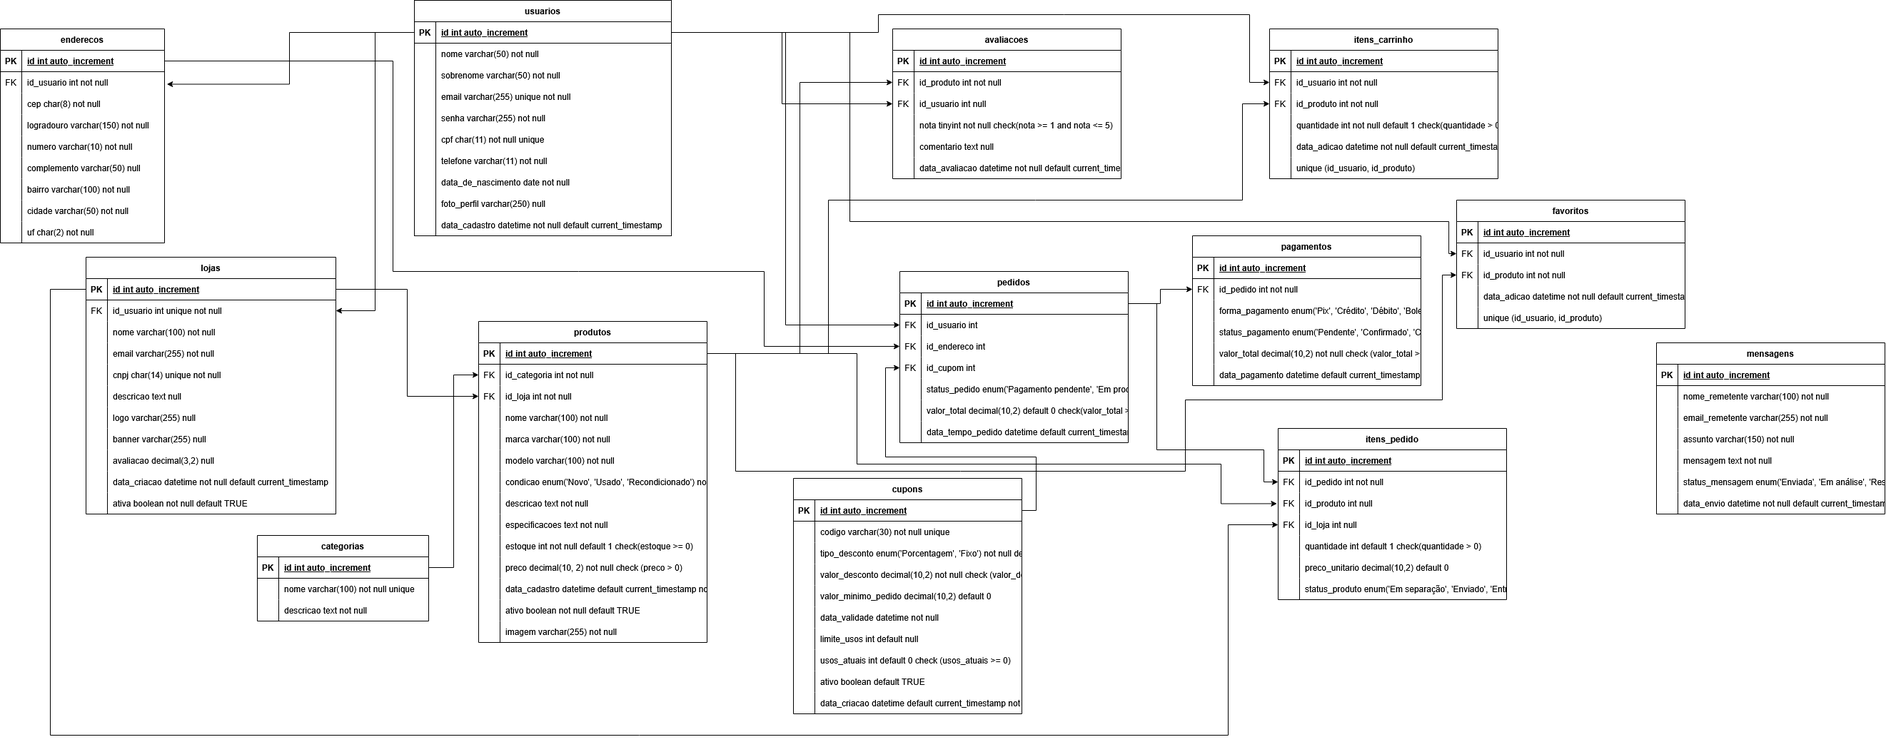
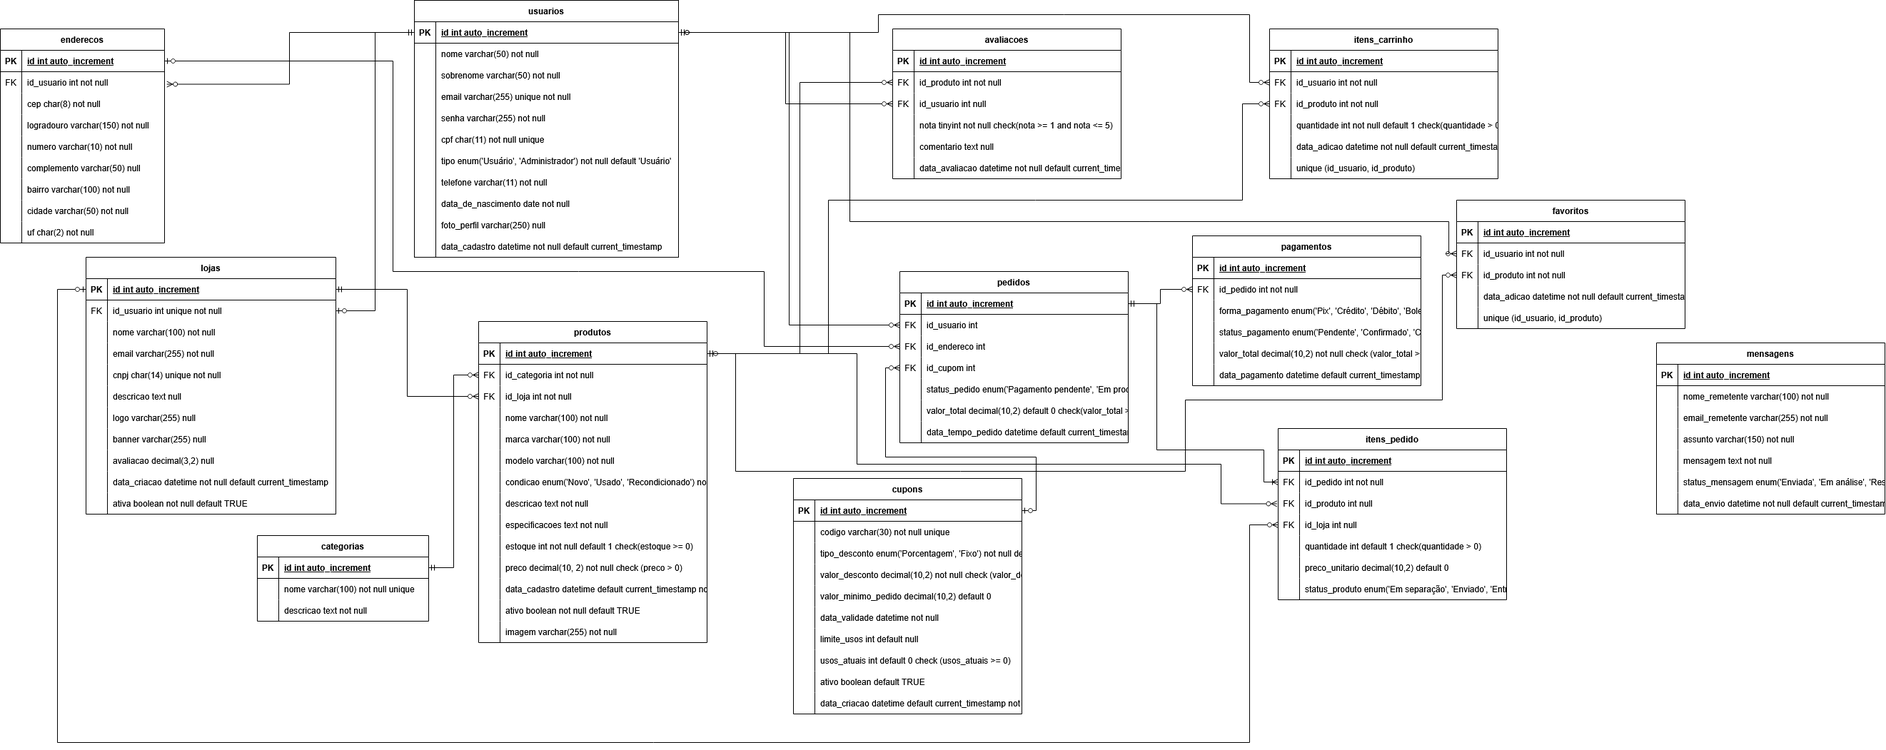
Atualizacao da documentacao

diff --git a/docs/banco-de-dados.md b/docs/banco-de-dados.md
@@ -20,16 +20,17 @@
 ## 1. `usuarios`
 | Campo | Tipo | Nulo | Chave / Restrições | Descrição |
 | :--- | :--- | :--- | :--- | :--- |
-| `id` | `INT` | Não | `PK`, `AUTO_INCREMENT` | Identificador do usuário. |
-| `nome` | `VARCHAR(50)` | Não | — | Primeiro nome do usuário. |
-| `sobrenome` | `VARCHAR(50)` | Não | — | Sobrenome do usuário. |
-| `email` | `VARCHAR(255)` | Não | `UNIQUE` | E-mail do usuário |
-| `senha` | `VARCHAR(255)` | Não | — | Senha do usuário |
-| `cpf` | `CHAR(11)` | Não | `UNIQUE` | CPF do usuário |
-| `telefone` | `VARCHAR(11)` | Não | — | Número de telefone do usuário |
+| `id` | `int` | Não | `PK`, `auto_increment` | Identificador do usuário. |
+| `nome` | `varchar(50)` | Não | — | Primeiro nome do usuário. |
+| `sobrenome` | `varchar(50)` | Não | — | Sobrenome do usuário. |
+| `email` | `varchar(255)` | Não | `unique` | E-mail do usuário |
+| `senha` | `varchar(255)` | Não | — | Senha do usuário |
+| `tipo` | `enum('Usuário', 'Administrador')` | Não | `default 'Usuário'` | Tipo do usuário |
+| `cpf` | `char(11)` | Não | `unique` | CPF do usuário |
+| `telefone` | `varchar(11)` | Não | — | Número de telefone do usuário |
 | `data_de_nascimento` | `DATE` | Não | — | Data de nascimento |
-| `foto_perfil` | `VARCHAR(250)` | Sim | `DEFAULT NULL` | Caminho ou URL da imagem de perfil |
-| `data_cadastro` | `DATETIME` | Não | `DEFAULT CURRENT_TIMESTAMP` | Data e hora de criação da conta |
+| `foto_perfil` | `varchar(250)` | Sim | `default null` | Caminho ou URL da imagem de perfil |
+| `data_cadastro` | `datetime` | Não | `default current_timestamp` | Data e hora de criação da conta |
 
 * **Cardinalidade:** `usuarios (1) : (0..1) lojas` | `usuarios (1) : (N) enderecos` | `usuarios (1) : (N) pedidos` | `usuarios (1) : (N) avaliacoes` | `usuarios (1) : (N) favoritos` | `usuarios (1) : (N) itens_carrinho`.
 
@@ -38,17 +39,17 @@
 ## 2. `enderecos`
 | Campo | Tipo | Nulo | Chave / Restrições | Descrição |
 | :--- | :--- | :--- | :--- | :--- |
-| `id` | `INT` | Não | `PK`, `AUTO_INCREMENT` | Identificador do endereço |
-| `id_usuario` | `INT` | Não | `FK` → `usuarios(id)` | Identificador do usuário proprietário do endereço |
-| `cep` | `CHAR(8)` | Não | — | Código de Endereçamento Postal |
-| `logradouro` | `VARCHAR(150)` | Não | — | Rua, avenida ou travessa |
-| `numero` | `VARCHAR(10)` | Não | — | Número do imóvel |
-| `complemento` | `VARCHAR(50)` | Sim | `DEFAULT NULL` | Apartamento, bloco ou ponto de referência |
-| `bairro` | `VARCHAR(100)` | Não | — | Bairro do endereço |
-| `cidade` | `VARCHAR(50)` | Não | — | Cidade do endereço |
-| `uf` | `CHAR(2)` | Não | — | Unidade Federativa (estado) do endereço |
+| `id` | `int` | Não | `PK`, `auto_increment` | Identificador do endereço |
+| `id_usuario` | `int` | Não | `FK` → `usuarios(id)` | Identificador do usuário proprietário do endereço |
+| `cep` | `char(8)` | Não | — | Código de Endereçamento Postal |
+| `logradouro` | `varchar(150)` | Não | — | Rua, avenida ou travessa |
+| `numero` | `varchar(10)` | Não | — | Número do imóvel |
+| `complemento` | `varchar(50)` | Sim | `default null` | Apartamento, bloco ou ponto de referência |
+| `bairro` | `varchar(100)` | Não | — | Bairro do endereço |
+| `cidade` | `varchar(50)` | Não | — | Cidade do endereço |
+| `uf` | `char(2)` | Não | — | Unidade Federativa (estado) do endereço |
 
-* `id_usuario` referencia `usuarios(id)` com `ON DELETE CASCADE` e `ON UPDATE CASCADE`
+* `id_usuario` referencia `usuarios(id)` com `on delete cascade` e `on update cascade`
 * **Cardinalidade:** `usuarios (1) : (N) enderecos` | `enderecos (1) : (N) pedidos`
 
 ---
@@ -56,9 +57,9 @@
 ## 3. `categorias`
 | Campo | Tipo | Nulo | Chave / Restrições | Descrição |
 | :--- | :--- | :--- | :--- | :--- |
-| `id` | `INT` | Não | `PK`, `AUTO_INCREMENT` | Identificador da categoria |
-| `nome` | `VARCHAR(100)` | Não | `UNIQUE` | Nome da categoria |
-| `descricao` | `TEXT` | Não | — | Descrição dos tipos de produtos dessa categoria |
+| `id` | `int` | Não | `PK`, `auto_increment` | Identificador da categoria |
+| `nome` | `varchar(100)` | Não | `unique` | Nome da categoria |
+| `descricao` | `text` | Não | — | Descrição dos tipos de produtos dessa categoria |
 
 * **Cardinalidade:** `categorias (1) : (N) produtos`
 
@@ -68,19 +69,19 @@
 
 | Campo | Tipo | Nulo | Chave / Restrições | Descrição |
 | :--- | :--- | :--- | :--- | :--- |
-| `id` | `INT` | Não | `PK`, `AUTO_INCREMENT` | Identificador da loja |
-| `id_usuario` | `INT` | Não | `FK` → `usuarios(id)`, `UNIQUE` | Usuário responsável pela loja |
-| `nome` | `VARCHAR(100)` | Não | — | Nome da loja |
-| `email` | `VARCHAR(255)` | Não | — | E-mail comercial da loja |
-| `cnpj` | `CHAR(14)` | Não | `UNIQUE` | Cadastro Nacional da Pessoa Jurídica |
-| `descricao` | `TEXT` | Sim | `DEFAULT NULL` | Apresentação da loja |
-| `logo` | `VARCHAR(255)` | Sim | `DEFAULT NULL` | Caminho do logotipo da loja |
-| `banner` | `VARCHAR(255)` | Sim | `DEFAULT NULL` | Caminho da capa da página da loja |
-| `avaliacao` | `DECIMAL(3,2)` | Sim | `DEFAULT NULL` | Nota média da loja |
-| `data_criacao` | `DATETIME` | Não | `DEFAULT CURRENT_TIMESTAMP` | Data e hora da criação da loja |
-| `ativa` | `BOOLEAN` | Não | `DEFAULT TRUE` | Indica se a loja está ativa (`TRUE`) ou suspensa (`FALSE`). |
+| `id` | `int` | Não | `PK`, `auto_increment` | Identificador da loja |
+| `id_usuario` | `int` | Não | `FK` → `usuarios(id)`, `unique` | Usuário responsável pela loja |
+| `nome` | `varchar(100)` | Não | — | Nome da loja |
+| `email` | `varchar(255)` | Não | — | E-mail comercial da loja |
+| `cnpj` | `char(14)` | Não | `unique` | Cadastro Nacional da Pessoa Jurídica |
+| `descricao` | `text` | Sim | `default null` | Apresentação da loja |
+| `logo` | `varchar(255)` | Sim | `default null` | Caminho do logotipo da loja |
+| `banner` | `varchar(255)` | Sim | `default null` | Caminho da capa da página da loja |
+| `avaliacao` | `decimal(3,2)` | Sim | `default null` | Nota média da loja |
+| `data_criacao` | `datetime` | Não | `default current_timestamp` | Data e hora da criação da loja |
+| `ativa` | `boolean` | Não | `default TRUE` | Indica se a loja está ativa (`TRUE`) ou suspensa (`FALSE`). |
 
-* `id_usuario` referencia `usuarios(id)` com `ON DELETE CASCADE` e `ON UPDATE CASCADE`
+* `id_usuario` referencia `usuarios(id)` com `on delete cascade` e `on update cascade`
 * **Cardinalidade:** `usuarios (1) : (0..1) lojas` | `lojas (1) : (N) produtos` | `lojas (1) : (N) itens_pedido`
 
 ---
@@ -88,23 +89,23 @@
 ## 5. `produtos`
 | Campo | Tipo | Nulo | Chave / Restrições | Descrição |
 | :--- | :--- | :--- | :--- | :--- |
-| `id` | `INT` | Não | `PK`, `AUTO_INCREMENT` | Identificador do produto |
-| `id_categoria` | `INT` | Não | `FK` → `categorias(id)` | Identificador da categoria deste produto |
-| `id_loja` | `INT` | Não | `FK` → `lojas(id)` | Identificador da loja que vende este produto |
-| `nome` | `VARCHAR(100)` | Não | — | Nome do produto |
-| `marca` | `VARCHAR(100)` | Não | — | Fabricante do produto |
-| `modelo` | `VARCHAR(100)` | Não | — | Modelo do produto |
-| `condicao` | `ENUM('Novo', 'Usado', 'Recondicionado')` | Não | `DEFAULT 'Novo'` | Estado do produto |
-| `descricao` | `TEXT` | Não | — | Descrição detalhada do produto |
-| `especificacoes` | `TEXT` | Não | — | Ficha técnica e especificações do produto |
-| `estoque` | `INT` | Não | `DEFAULT 1`, `CHECK (estoque >= 0)` | Quantidade de unidades do produto disponíveis para venda |
-| `preco` | `DECIMAL(10,2)` | Não | `CHECK (preco > 0)` | Preço unitário atual de venda (em reais) |
-| `data_cadastro` | `DATETIME` | Não | `DEFAULT CURRENT_TIMESTAMP` | Data e hora do cadastro do produto |
-| `ativo` | `BOOLEAN` | Não | `DEFAULT TRUE` | Indica se o anúncio está visível (`TRUE`) ou oculto (`FALSE`) |
-| `imagem` | `VARCHAR(255)` | Não | — | Caminho da imagem do produto |
+| `id` | `int` | Não | `PK`, `auto_increment` | Identificador do produto |
+| `id_categoria` | `int` | Não | `FK` → `categorias(id)` | Identificador da categoria deste produto |
+| `id_loja` | `int` | Não | `FK` → `lojas(id)` | Identificador da loja que vende este produto |
+| `nome` | `varchar(100)` | Não | — | Nome do produto |
+| `marca` | `varchar(100)` | Não | — | Fabricante do produto |
+| `modelo` | `varchar(100)` | Não | — | Modelo do produto |
+| `condicao` | `enum('Novo', 'Usado', 'Recondicionado')` | Não | `default 'Novo'` | Estado do produto |
+| `descricao` | `text` | Não | — | Descrição detalhada do produto |
+| `especificacoes` | `text` | Não | — | Ficha técnica e especificações do produto |
+| `estoque` | `int` | Não | `default 1`, `CHECK (estoque >= 0)` | Quantidade de unidades do produto disponíveis para venda |
+| `preco` | `decimal(10,2)` | Não | `CHECK (preco > 0)` | Preço unitário atual de venda (em reais) |
+| `data_cadastro` | `datetime` | Não | `default current_timestamp` | Data e hora do cadastro do produto |
+| `ativo` | `boolean` | Não | `default TRUE` | Indica se o anúncio está visível (`TRUE`) ou oculto (`FALSE`) |
+| `imagem` | `varchar(255)` | Não | — | Caminho da imagem do produto |
 
-* `id_categoria` referencia `categorias(id)` com `ON DELETE RESTRICT` e `ON UPDATE CASCADE`
-* `id_loja` referencia `lojas(id)` com `ON DELETE CASCADE` e `ON UPDATE CASCADE`
+* `id_categoria` referencia `categorias(id)` com `on delete restrict` e `on update cascade`
+* `id_loja` referencia `lojas(id)` com `on delete cascade` e `on update cascade`
 * **Cardinalidade:** `categorias (1) : (N) produtos` | `lojas (1) : (N) produtos` | `produtos (1) : (N) itens_pedido` | `produtos (1) : (N) avaliacoes` | `produtos (1) : (N) favoritos` | `produtos (1) : (N) itens_carrinho`
 
 ---
@@ -112,16 +113,16 @@
 ## 6. `cupons`
 | Campo | Tipo | Nulo | Chave / Restrições | Descrição |
 | :--- | :--- | :--- | :--- | :--- |
-| `id` | `INT` | Não | `PK`, `AUTO_INCREMENT` | Identificador do cupom |
-| `codigo` | `VARCHAR(30)` | Não | `UNIQUE` | Código promocional deste cupom |
-| `tipo_desconto` | `ENUM('Porcentagem', 'Fixo')` | Não | `DEFAULT 'Porcentagem'` | Modalidade de cálculo do desconto |
-| `valor_desconto` | `DECIMAL(10,2)` | Não | `CHECK (valor_desconto > 0)` | Percentual ou valor fixo do desconto |
-| `valor_minimo_pedido` | `DECIMAL(10,2)` | Sim | `DEFAULT 0` | Valor mínimo necessário no pedido para aplicar o cupom |
-| `data_validade` | `DATETIME` | Não | — | Data e hora limite para utilização do cupom |
-| `limite_usos` | `INT` | Sim | `DEFAULT NULL` | Quantidade máxima de resgates |
-| `usos_atuais` | `INT` | Sim | `DEFAULT 0`, `CHECK (usos_atuais >= 0)` | Quantidade de vezes em que o cupom já foi utilizado |
-| `ativo` | `BOOLEAN` | Sim | `DEFAULT TRUE` | Indica se o cupom está disponível |
-| `data_criacao` | `DATETIME` | Não | `DEFAULT CURRENT_TIMESTAMP` | Data e hora da criação do cupom |
+| `id` | `int` | Não | `PK`, `auto_increment` | Identificador do cupom |
+| `codigo` | `varchar(30)` | Não | `unique` | Código promocional deste cupom |
+| `tipo_desconto` | `enum('Porcentagem', 'Fixo')` | Não | `default 'Porcentagem'` | Modalidade de cálculo do desconto |
+| `valor_desconto` | `decimal(10,2)` | Não | `CHECK (valor_desconto > 0)` | Percentual ou valor fixo do desconto |
+| `valor_minimo_pedido` | `decimal(10,2)` | Sim | `default 0` | Valor mínimo necessário no pedido para aplicar o cupom |
+| `data_validade` | `datetime` | Não | — | Data e hora limite para utilização do cupom |
+| `limite_usos` | `int` | Sim | `default null` | Quantidade máxima de resgates |
+| `usos_atuais` | `int` | Sim | `default 0`, `CHECK (usos_atuais >= 0)` | Quantidade de vezes em que o cupom já foi utilizado |
+| `ativo` | `boolean` | Sim | `default TRUE` | Indica se o cupom está disponível |
+| `data_criacao` | `datetime` | Não | `default current_timestamp` | Data e hora da criação do cupom |
 
 * **Cardinalidade:** `cupons (1) : (N) pedidos`
 
@@ -130,15 +131,15 @@
 ## 7. `pedidos`
 | Campo | Tipo | Nulo | Chave / Restrições | Descrição |
 | :--- | :--- | :--- | :--- | :--- |
-| `id` | `INT` | Não | `PK`, `AUTO_INCREMENT` | Identificador do pedido |
-| `id_usuario` | `INT` | Sim | `FK` → `usuarios(id)` | Identificador do usuário que realizou o pedido |
-| `id_endereco` | `INT` | Sim | `FK` → `enderecos(id)` | Identificador do endereço selecionado para a entrega |
-| `id_cupom` | `INT` | Sim | `FK` → `cupons(id)` | Identificador do cupom promocional aplicado na compra |
-| `status_pedido` | `ENUM('Pagamento pendente', 'Em processamento', 'Confirmado', 'Em rota', 'Em rota de entrega', 'Cancelado', 'Reembolsado', 'Entregue')` | Sim | `DEFAULT 'Pagamento pendente'` | Situação geral do pedido |
-| `valor_total` | `DECIMAL(10,2)` | Sim | `DEFAULT 0`, `CHECK (valor_total >= 0)` | Valor final do pedido |
-| `data_tempo_pedido` | `DATETIME` | Sim | `DEFAULT CURRENT_TIMESTAMP` | Data e hora em que o pedido foi registrado |
+| `id` | `int` | Não | `PK`, `auto_increment` | Identificador do pedido |
+| `id_usuario` | `int` | Sim | `FK` → `usuarios(id)` | Identificador do usuário que realizou o pedido |
+| `id_endereco` | `int` | Sim | `FK` → `enderecos(id)` | Identificador do endereço selecionado para a entrega |
+| `id_cupom` | `int` | Sim | `FK` → `cupons(id)` | Identificador do cupom promocional aplicado na compra |
+| `status_pedido` | `enum('Pagamento pendente', 'Em processamento', 'Confirmado', 'Em rota', 'Em rota de entrega', 'Cancelado', 'Reembolsado', 'Entregue')` | Sim | `default 'Pagamento pendente'` | Situação geral do pedido |
+| `valor_total` | `decimal(10,2)` | Sim | `default 0`, `CHECK (valor_total >= 0)` | Valor final do pedido |
+| `data_tempo_pedido` | `datetime` | Sim | `default current_timestamp` | Data e hora em que o pedido foi registrado |
 
-* `id_usuario`, `id_endereco` e `id_cupom` utilizam `ON DELETE SET NULL` e `ON UPDATE CASCADE`
+* `id_usuario`, `id_endereco` e `id_cupom` utilizam `on delete set null` e `on update cascade`
 * **Cardinalidade:** `usuarios (1) : (N) pedidos` | `enderecos (1) : (N) pedidos` | `cupons (1) : (N) pedidos` | `pedidos (1) : (N) itens_pedido` | `pedidos (1) : (N) pagamentos`
 
 ---
@@ -146,16 +147,16 @@
 ## 8. `itens_pedido`
 | Campo | Tipo | Nulo | Chave / Restrições | Descrição |
 | :--- | :--- | :--- | :--- | :--- |
-| `id` | `INT` | Não | `PK`, `AUTO_INCREMENT` | Identificador do item no pedido |
-| `id_pedido` | `INT` | Não | `FK` → `pedidos(id)` | Identificador do pedido que o item pertence |
-| `id_produto` | `INT` | Sim | `FK` → `produtos(id)` | Identificador do produto adquirido |
-| `id_loja` | `INT` | Sim | `FK` → `lojas(id)` | Identificador da loja responsável pela separação e envio deste item |
-| `quantidade` | `INT` | Sim | `DEFAULT 1`, `CHECK (quantidade > 0)` | Quantidade de unidades do produto para serem compradas |
-| `preco_unitario` | `DECIMAL(10,2)` | Sim | `DEFAULT 0` | Preço unitário do momento da compra |
-| `status_produto` | `ENUM('Em separação', 'Enviado', 'Entregue', 'Cancelado')` | Não | `DEFAULT 'Em separação'` | Estado específico do item |
+| `id` | `int` | Não | `PK`, `auto_increment` | Identificador do item no pedido |
+| `id_pedido` | `int` | Não | `FK` → `pedidos(id)` | Identificador do pedido que o item pertence |
+| `id_produto` | `int` | Sim | `FK` → `produtos(id)` | Identificador do produto adquirido |
+| `id_loja` | `int` | Sim | `FK` → `lojas(id)` | Identificador da loja responsável pela separação e envio deste item |
+| `quantidade` | `int` | Sim | `default 1`, `CHECK (quantidade > 0)` | Quantidade de unidades do produto para serem compradas |
+| `preco_unitario` | `decimal(10,2)` | Sim | `default 0` | Preço unitário do momento da compra |
+| `status_produto` | `enum('Em separação', 'Enviado', 'Entregue', 'Cancelado')` | Não | `default 'Em separação'` | Estado específico do item |
 
-* `id_pedido` referencia `pedidos(id)` com `ON DELETE CASCADE` e `ON UPDATE CASCADE`
-* `id_produto` e `id_loja` utilizam `ON DELETE SET NULL` e `ON UPDATE CASCADE`
+* `id_pedido` referencia `pedidos(id)` com `on delete cascade` e `on update cascade`
+* `id_produto` e `id_loja` utilizam `on delete set null` e `on update cascade`
 * **Cardinalidade:** `pedidos (1) : (N) itens_pedido` | `produtos (1) : (N) itens_pedido` | `lojas (1) : (N) itens_pedido`
 
 ---
@@ -163,14 +164,14 @@
 ## 9. `pagamentos`
 | Campo | Tipo | Nulo | Chave / Restrições | Descrição |
 | :--- | :--- | :--- | :--- | :--- |
-| `id` | `INT` | Não | `PK`, `AUTO_INCREMENT` | Identificador do pagamento |
-| `id_pedido` | `INT` | Não | `FK` → `pedidos(id)` | Identificador do pedido vinculado ao pagamento |
-| `forma_pagamento` | `ENUM('Pix', 'Crédito', 'Débito', 'Boleto')` | Não | — | Forma de pagamento selecionada pelo usuário |
-| `status_pagamento` | `ENUM('Pendente', 'Confirmado', 'Cancelado')` | Não | — | Situação da transação |
-| `valor_total` | `DECIMAL(10,2)` | Não | `CHECK (valor_total > 0)` | Valor da transação |
-| `data_pagamento` | `DATETIME` | Sim | `DEFAULT CURRENT_TIMESTAMP` | Data e hora da confirmação do pagamento |
+| `id` | `int` | Não | `PK`, `auto_increment` | Identificador do pagamento |
+| `id_pedido` | `int` | Não | `FK` → `pedidos(id)` | Identificador do pedido vinculado ao pagamento |
+| `forma_pagamento` | `enum('Pix', 'Crédito', 'Débito', 'Boleto')` | Não | — | Forma de pagamento selecionada pelo usuário |
+| `status_pagamento` | `enum('Pendente', 'Confirmado', 'Cancelado')` | Não | — | Situação da transação |
+| `valor_total` | `decimal(10,2)` | Não | `CHECK (valor_total > 0)` | Valor da transação |
+| `data_pagamento` | `datetime` | Sim | `default current_timestamp` | Data e hora da confirmação do pagamento |
 
-* `id_pedido` referencia `pedidos(id)` com `ON DELETE RESTRICT` e `ON UPDATE CASCADE`
+* `id_pedido` referencia `pedidos(id)` com `on delete restrict` e `on update cascade`
 * **Cardinalidade:** `pedidos (1) : (N) pagamentos`
 
 ---
@@ -178,15 +179,15 @@
 ## 10. `avaliacoes`
 | Campo | Tipo | Nulo | Chave / Restrições | Descrição |
 | :--- | :--- | :--- | :--- | :--- |
-| `id` | `INT` | Não | `PK`, `AUTO_INCREMENT` | Identificador da avaliação |
-| `id_produto` | `INT` | Não | `FK` → `produtos(id)` | Identificador do produto avaliado |
-| `id_usuario` | `INT` | Sim | `FK` → `usuarios(id)` | Identificador do usuário autor desta avaliação |
-| `nota` | `TINYINT` | Não | `CHECK (nota >= 1 AND nota <= 5)` | Pontuação dada pelo usuário ao produto |
-| `comentario` | `TEXT` | Sim | `DEFAULT NULL` | Relato do usuário sobre o produto e a experiência |
-| `data_avaliacao` | `DATETIME` | Não | `DEFAULT CURRENT_TIMESTAMP` | Data e hora de envio da avaliação |
+| `id` | `int` | Não | `PK`, `auto_increment` | Identificador da avaliação |
+| `id_produto` | `int` | Não | `FK` → `produtos(id)` | Identificador do produto avaliado |
+| `id_usuario` | `int` | Sim | `FK` → `usuarios(id)` | Identificador do usuário autor desta avaliação |
+| `nota` | `TINYint` | Não | `CHECK (nota >= 1 AND nota <= 5)` | Pontuação dada pelo usuário ao produto |
+| `comentario` | `text` | Sim | `default null` | Relato do usuário sobre o produto e a experiência |
+| `data_avaliacao` | `datetime` | Não | `default current_timestamp` | Data e hora de envio da avaliação |
 
-* `id_produto` referencia `produtos(id)` com `ON DELETE CASCADE` e `ON UPDATE CASCADE`
-* `id_usuario` referencia `usuarios(id)` com `ON DELETE SET NULL` e `ON UPDATE CASCADE`
+* `id_produto` referencia `produtos(id)` com `on delete cascade` e `on update cascade`
+* `id_usuario` referencia `usuarios(id)` com `on delete set null` e `on update cascade`
 * **Cardinalidade:** `produtos (1) : (N) avaliacoes` | `usuarios (1) : (N) avaliacoes`
 
 ---
@@ -194,13 +195,13 @@
 ## 11. `mensagens`
 | Campo | Tipo | Nulo | Chave / Restrições | Descrição |
 | :--- | :--- | :--- | :--- | :--- |
-| `id` | `INT` | Não | `PK`, `AUTO_INCREMENT` | Identificador da mensagem |
-| `nome_remetente` | `VARCHAR(100)` | Não | — | Nome do remetente |
-| `email_remetente` | `VARCHAR(255)` | Não | — | E-mail do remetente|
-| `assunto` | `VARCHAR(150)` | Não | — | Assunto da mensagem |
-| `mensagem` | `TEXT` | Não | — | Mensagem enviada pelo remetente |
-| `status_mensagem` | `ENUM('Enviada', 'Em análise', 'Respondida')` | Não | `DEFAULT 'Enviada'` | Estado de triagem da mensagem |
-| `data_envio` | `DATETIME` | Não | `DEFAULT CURRENT_TIMESTAMP` | Data e hora de envio da mensagem |
+| `id` | `int` | Não | `PK`, `auto_increment` | Identificador da mensagem |
+| `nome_remetente` | `varchar(100)` | Não | — | Nome do remetente |
+| `email_remetente` | `varchar(255)` | Não | — | E-mail do remetente|
+| `assunto` | `varchar(150)` | Não | — | Assunto da mensagem |
+| `mensagem` | `text` | Não | — | Mensagem enviada pelo remetente |
+| `status_mensagem` | `enum('Enviada', 'Em análise', 'Respondida')` | Não | `default 'Enviada'` | Estado de triagem da mensagem |
+| `data_envio` | `datetime` | Não | `default current_timestamp` | Data e hora de envio da mensagem |
 
 * **Cardinalidade:** Entidade independente
 
@@ -209,13 +210,13 @@
 ## 12. `favoritos`
 | Campo | Tipo | Nulo | Chave / Restrições | Descrição |
 | :--- | :--- | :--- | :--- | :--- |
-| `id` | `INT` | Não | `PK`, `AUTO_INCREMENT` | Identificador de registro do produto favoritado |
-| `id_usuario` | `INT` | Não | `FK` → `usuarios(id)`, `UNIQUE (id_usuario, id_produto)` | Identificador do usuário que favoritou o produto |
-| `id_produto` | `INT` | Não | `FK` → `produtos(id)`, `UNIQUE (id_usuario, id_produto)` | Identificador do produto favoritado |
-| `data_adicao` | `DATETIME` | Não | `DEFAULT CURRENT_TIMESTAMP` | Data e hora em que o produto foi favoritado |
+| `id` | `int` | Não | `PK`, `auto_increment` | Identificador de registro do produto favoritado |
+| `id_usuario` | `int` | Não | `FK` → `usuarios(id)`, `unique (id_usuario, id_produto)` | Identificador do usuário que favoritou o produto |
+| `id_produto` | `int` | Não | `FK` → `produtos(id)`, `unique (id_usuario, id_produto)` | Identificador do produto favoritado |
+| `data_adicao` | `datetime` | Não | `default current_timestamp` | Data e hora em que o produto foi favoritado |
 
-* Chave única composta `UNIQUE (id_usuario, id_produto)` impede a duplicidade do mesmo produto nos favoritos de um mesmo usuário
-* `id_usuario` e `id_produto` utilizam `ON DELETE CASCADE` e `ON UPDATE CASCADE`
+* Chave única composta `unique (id_usuario, id_produto)` impede a duplicidade do mesmo produto nos favoritos de um mesmo usuário
+* `id_usuario` e `id_produto` utilizam `on delete cascade` e `on update cascade`
 * **Cardinalidade:** `usuarios (1) : (N) favoritos` | `produtos (1) : (N) favoritos`
 
 ---
@@ -223,12 +224,12 @@
 ## 13. `itens_carrinho`
 | Campo | Tipo | Nulo | Chave / Restrições | Descrição |
 | :--- | :--- | :--- | :--- | :--- |
-| `id` | `INT` | Não | `PK`, `AUTO_INCREMENT` | Identificador do item no carrinho |
-| `id_usuario` | `INT` | Não | `FK` → `usuarios(id)`, `UNIQUE (id_usuario, id_produto)` | Identificador do usuário dono do carrinho |
-| `id_produto` | `INT` | Não | `FK` → `produtos(id)`, `UNIQUE (id_usuario, id_produto)` | Identificador do produto adicionado ao carrinho |
-| `quantidade` | `INT` | Não | `DEFAULT 1`, `CHECK (quantidade > 0)` | Quantidade selecionada daquele produto |
-| `data_adicao` | `DATETIME` | Não | `DEFAULT CURRENT_TIMESTAMP` | Data e hora da adição do produto no carrinho. |
+| `id` | `int` | Não | `PK`, `auto_increment` | Identificador do item no carrinho |
+| `id_usuario` | `int` | Não | `FK` → `usuarios(id)`, `unique (id_usuario, id_produto)` | Identificador do usuário dono do carrinho |
+| `id_produto` | `int` | Não | `FK` → `produtos(id)`, `unique (id_usuario, id_produto)` | Identificador do produto adicionado ao carrinho |
+| `quantidade` | `int` | Não | `default 1`, `CHECK (quantidade > 0)` | Quantidade selecionada daquele produto |
+| `data_adicao` | `datetime` | Não | `default current_timestamp` | Data e hora da adição do produto no carrinho. |
 
-* Chave única composta `UNIQUE (id_usuario, id_produto)` impede a duplicidade do mesmo produto no carrinho de um mesmo usuário
-* `id_usuario` e `id_produto` utilizam `ON DELETE CASCADE` e `ON UPDATE CASCADE`
+* Chave única composta `unique (id_usuario, id_produto)` impede a duplicidade do mesmo produto no carrinho de um mesmo usuário
+* `id_usuario` e `id_produto` utilizam `on delete cascade` e `on update cascade`
 * **Cardinalidade:** `usuarios (1) : (N) itens_carrinho` | `produtos (1) : (N) itens_carrinho`
